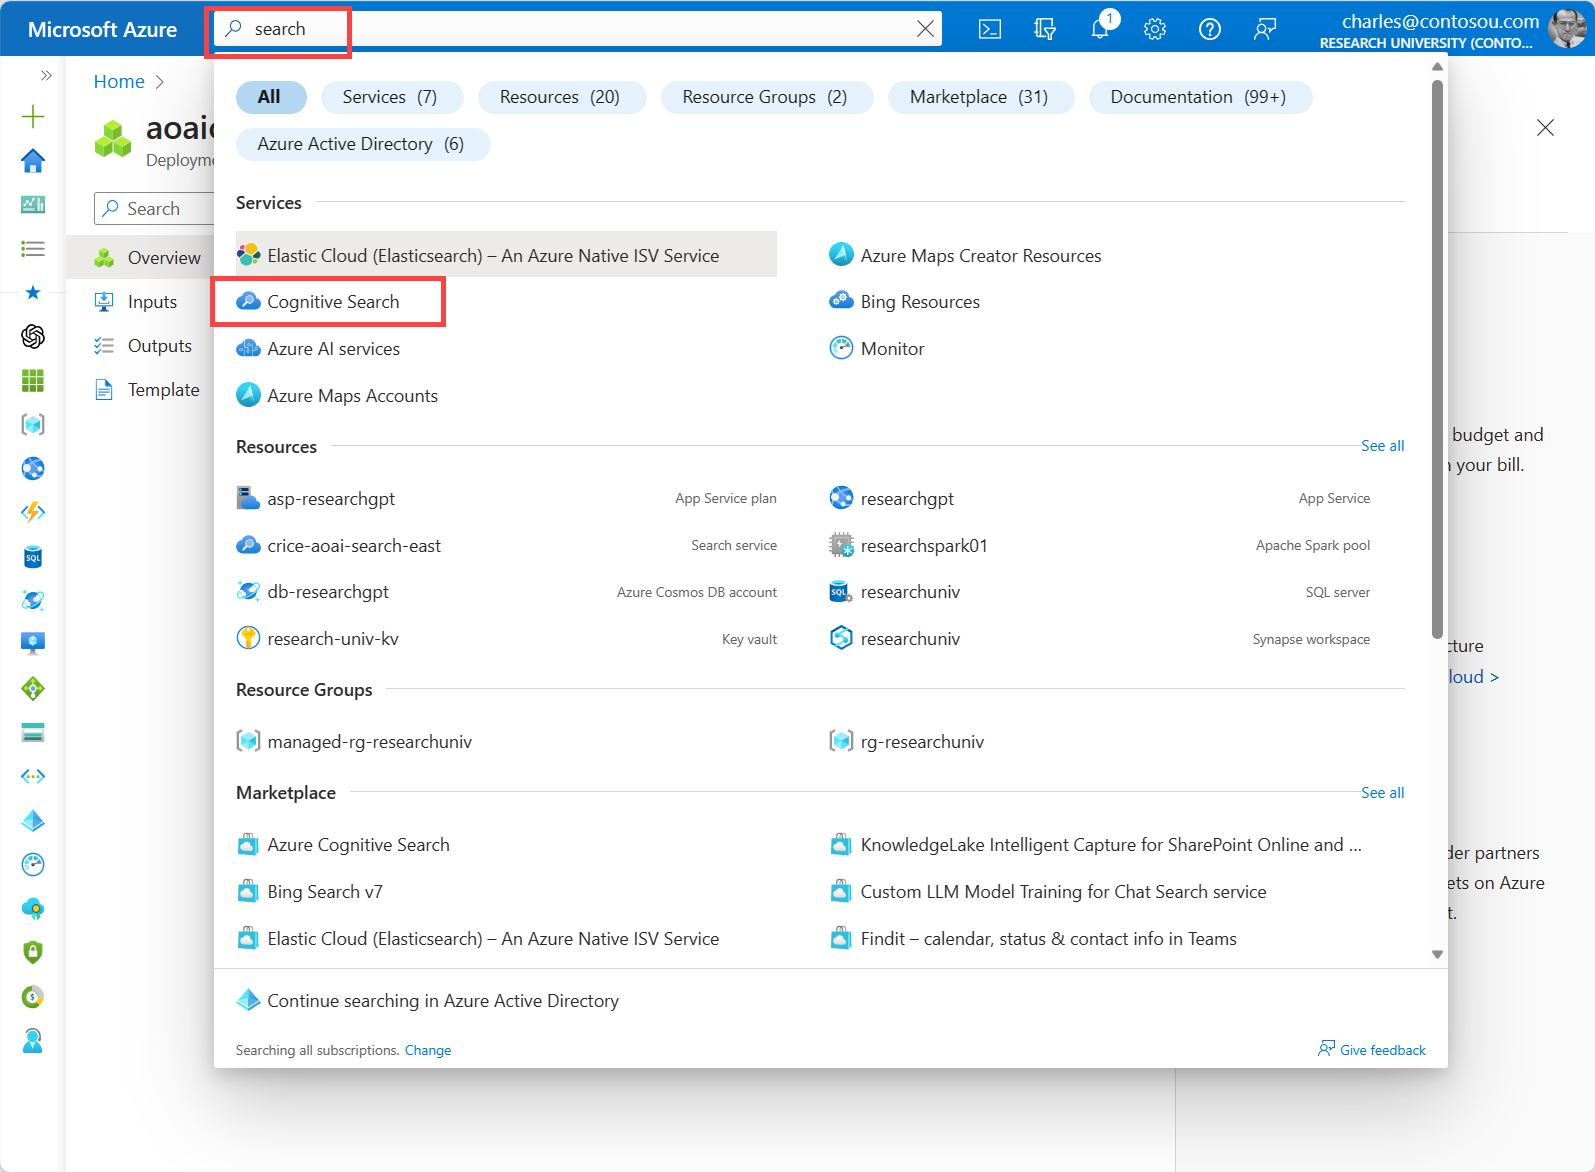
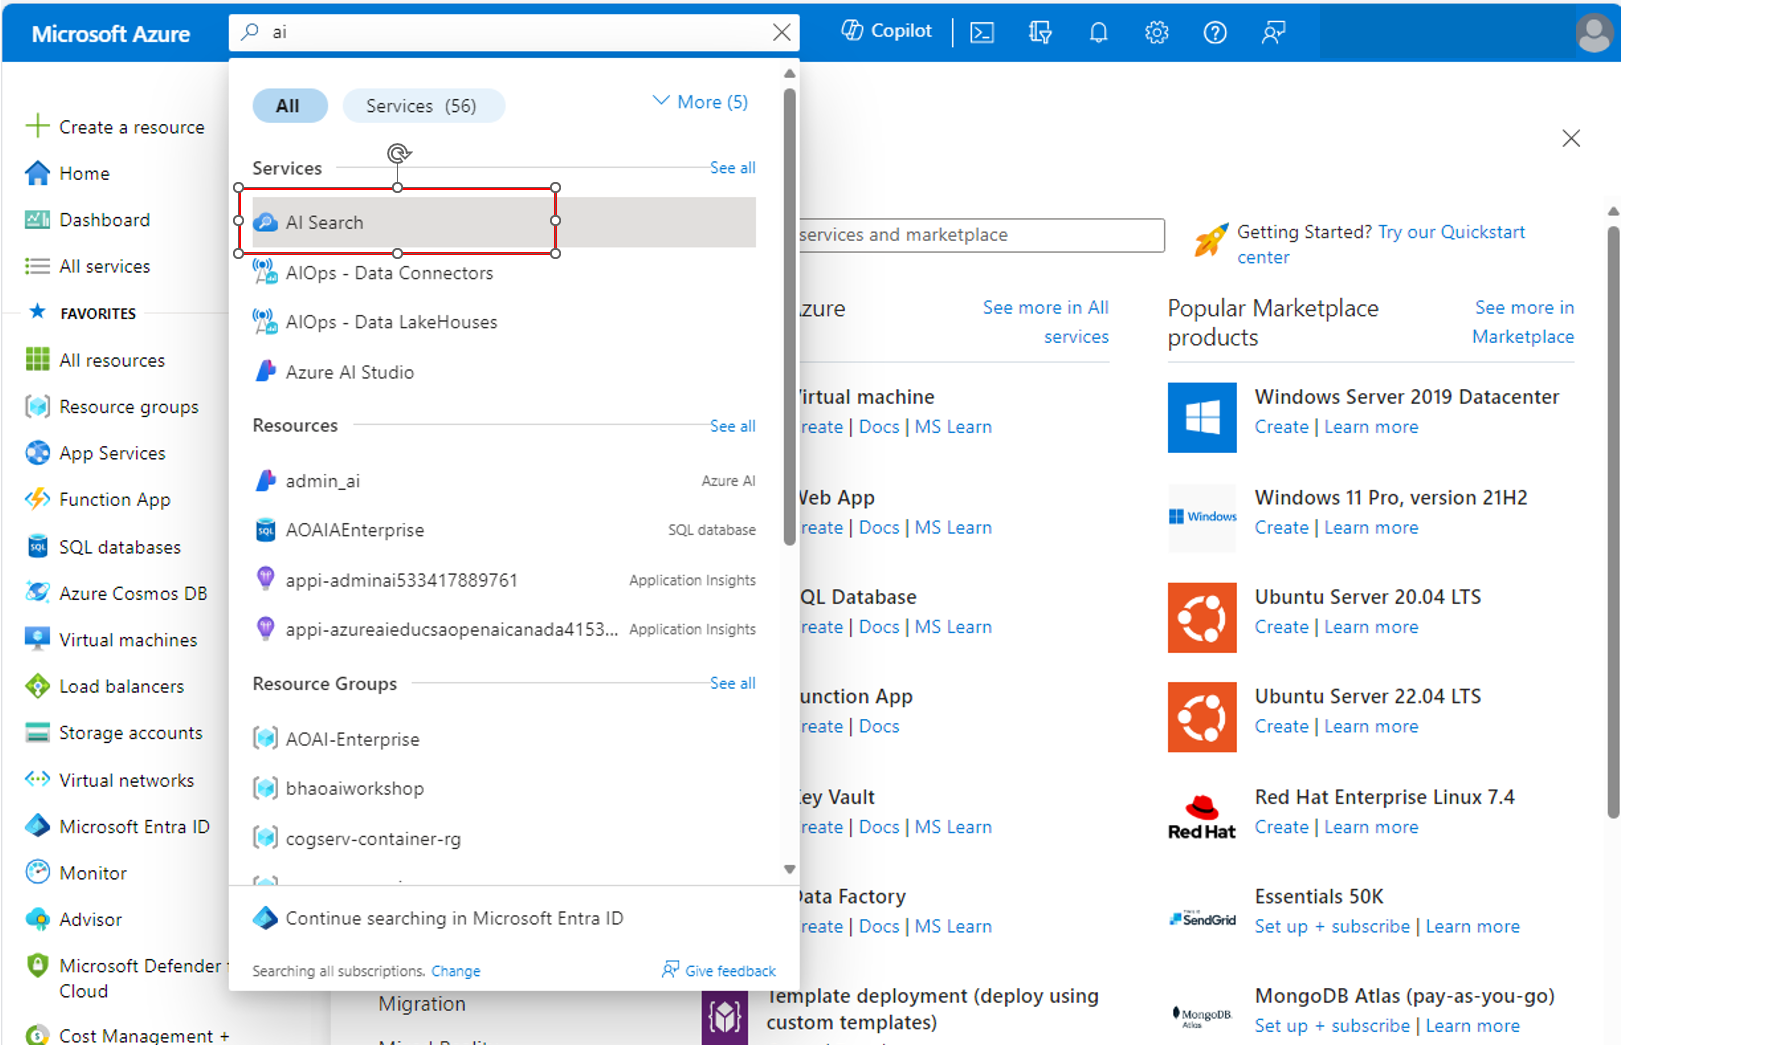
updated screens

Changed region(s): [[0.0, 0.0, 1.0, 1.0]]

diff --git a/labs/Lab_On_Your_Data/lab.md b/labs/Lab_On_Your_Data/lab.md
@@ -34,10 +34,10 @@ To chat with and analyze your own data, you need to create a storage account in 
 
     ![Create storage account](media/create-storage-05.png)
 
-## Create a Cognitive Search Resource
-A Cognitive Search service in Azure is another requirement for models to chat with and analyze your own data. A Cognitive Search service is where you index and enrich your data source, such as a PDF document, a web page, or a database. A Cognitive Search service also provides retrieval and augmentation benefits, such as natural language processing, semantic ranking, and faceted navigation.
+## Create an AI Search Resource
+An AI Search service in Azure is another requirement for models to chat with and analyze your own data. AI Cognitive Search service is where you index and enrich your data source, such as a PDF document, a web page, or a database. AI Search service also provides retrieval and augmentation benefits, such as natural language processing, semantic ranking, and faceted navigation.
 
-1. From the Azure Portal, search for *Search* in the **Global Search Bar** and select **Cognitive Search**. Next, click **+ Create** at the top of the Cognitive Search section.
+1. From the Azure Portal, search for *Search* in the **Global Search Bar** and select **AI Search**. Next, click **+ Create** at the top of the AI Search section.
 
     ![Create search](media/create-search-01.png)
 
@@ -45,7 +45,7 @@ A Cognitive Search service in Azure is another requirement for models to chat wi
 
     ![Create search](media/create-search-02.png)
 
-1. Once the resoruce is created click the **Go To Resource** button. From your Cognitive Search resource page, select **Semantic search** from the left-hand navigation blade and enable the *Free* tier. 
+1. Once the resoruce is created click the **Go To Resource** button. From your Cognitive Search resource page, select **Semantic Ranker** from the left-hand navigation blade and enable the *Free* tier. 
 
     ![Create search](media/create-search-03.png)
 
